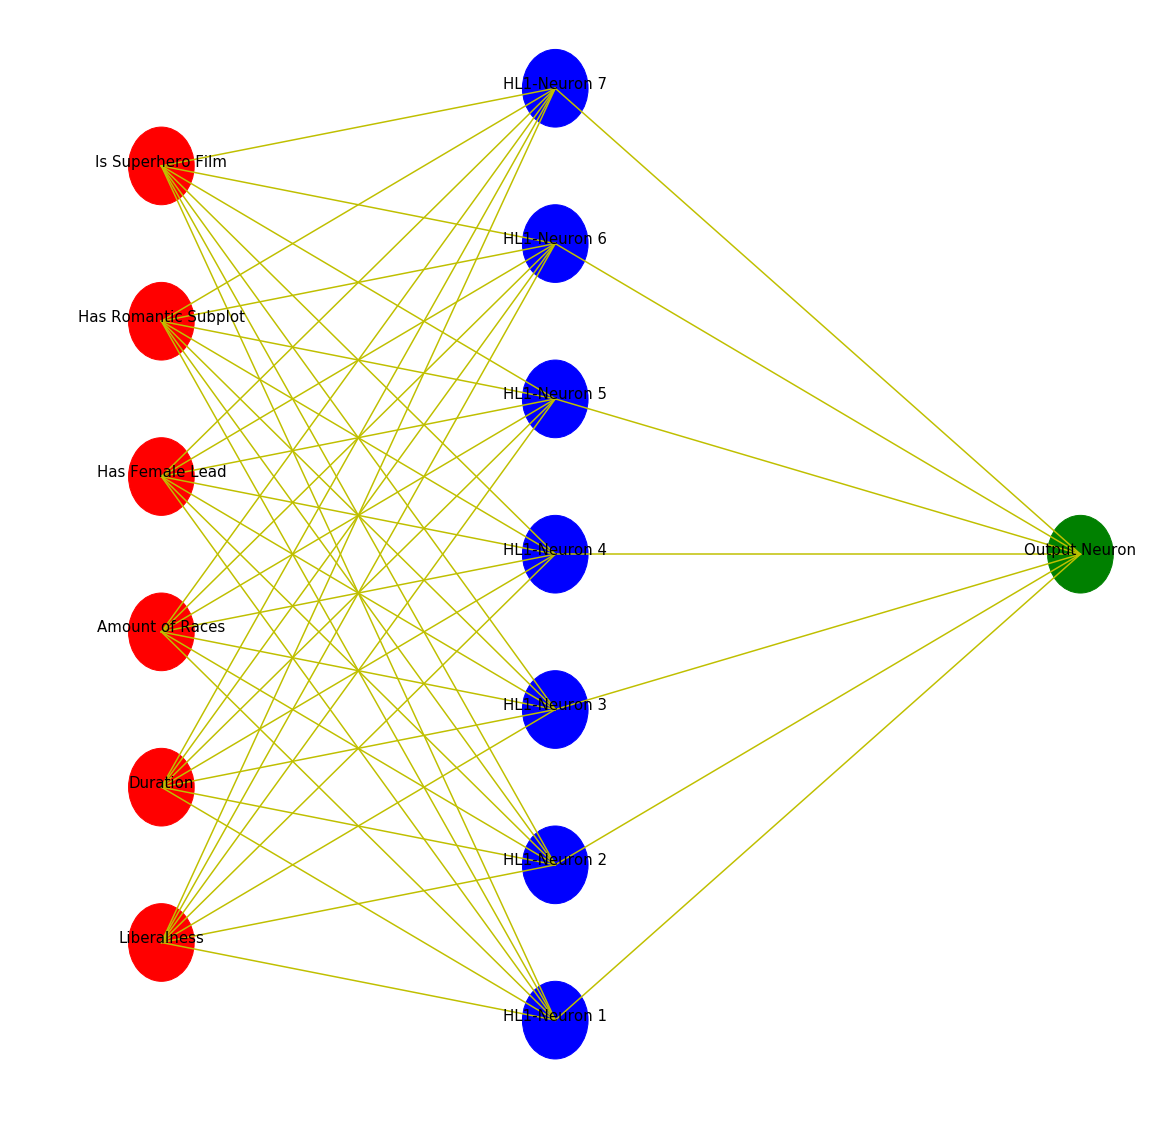
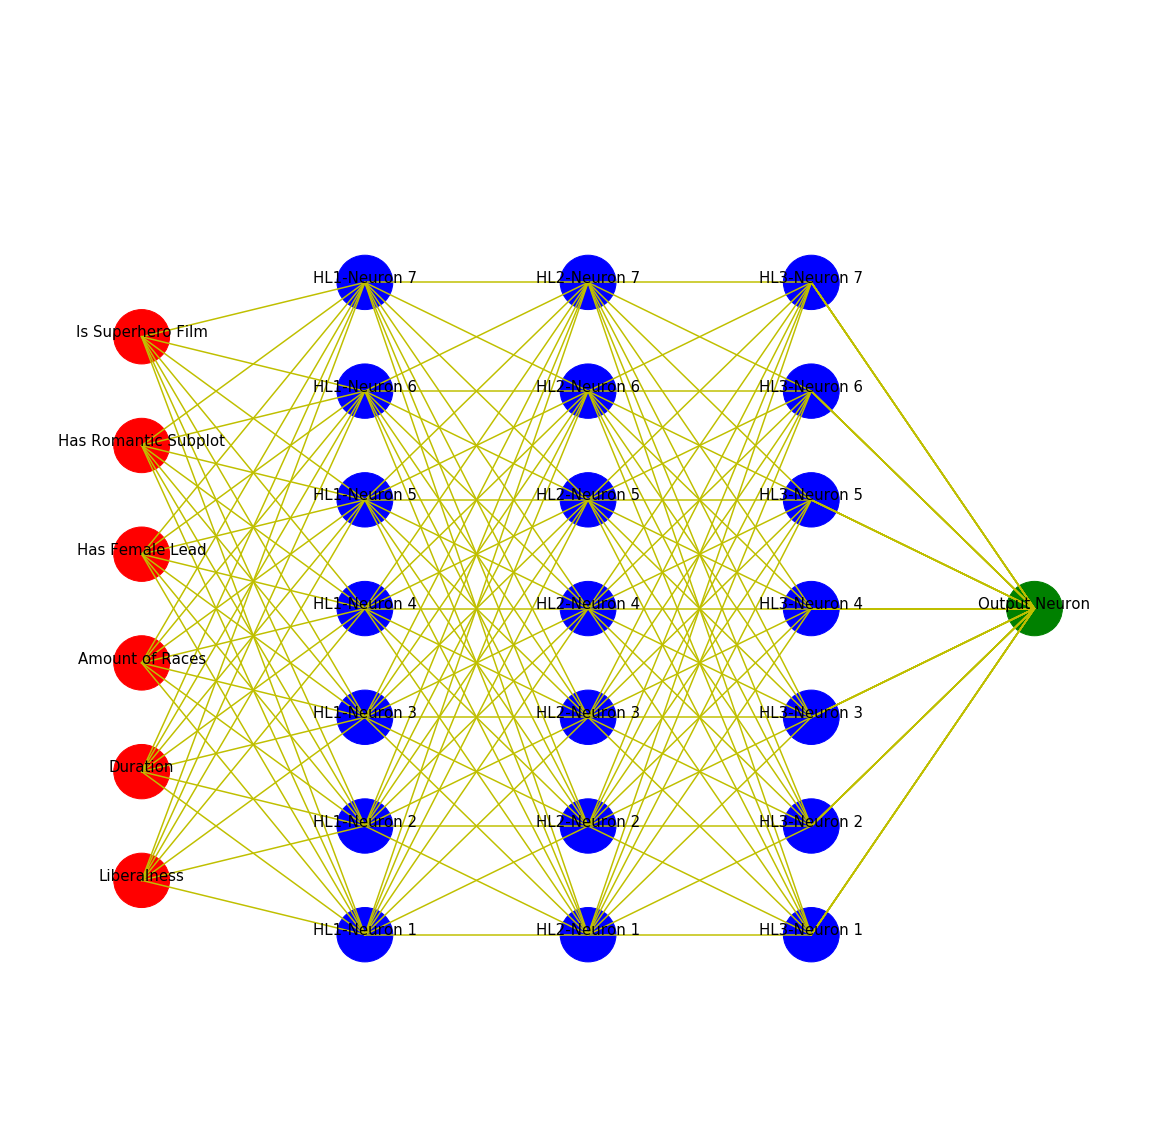
Multilayer capabilities complete

Changed region(s): [[0.0624, 0.0312, 0.9679, 0.967], [0.7493, 0.6551, 0.7806, 0.6863], [0.3122, 0.156, 0.3435, 0.1872]]

diff --git a/mlp-pandas-oop.py b/mlp-pandas-oop.py
@@ -1,3 +1,6 @@
+from math import floor
+from matplotlib.pyplot import Circle, subplots
+from matplotlib.lines import Line2D
 from numpy import exp
 from numpy.random import randn
 from pandas import DataFrame
@@ -5,26 +8,24 @@ from pandas import DataFrame
 
 class MLP:
     def __init__(self, X, y, hidden_layers):
-        self.X = X
-        self.y = y
         self.input_nodes = X.shape[1]
         self.hidden_neurons = X.shape[1] + 1
-        self.hidden_layers = hidden_layers  # Must be at least 1
+        self.hidden_layers = hidden_layers
         self.output_neuron = 1
-        self.learning_rate = 1  # Dictates weight adjustment
+        self.learning_rate = 1
         self.iterations = 500
         self.weights = {}
         self.check_hidden_input()
         self.gen_weights()
 
     def check_hidden_input(self):
-        if isinstance(self.hidden_layers, int) is False:
+        if isinstance(self.hidden_neurons, int) is False:
             print("Valid integer not provided.  Defaulting to 1")
             self.hidden_layers = 1
-        elif isinstance(self.hidden_layers,
-                        int) is True and self.hidden_layers < 1:
+        elif isinstance(self.hidden_neurons,
+                        int) is True and self.hidden_neurons < 1:
             print("Valid integer not provided.  Defaulting to 1")
-            self.hidden_layers = 1
+            self.hidden_neurons = 1
 
     def gen_weights(self):
         def gen_input_hl_weights(self):
@@ -42,13 +43,13 @@ class MLP:
                            for j in range(1, self.hidden_neurons + 1)),
                     columns=("HL" + str(i) + "-Synapse " + str(j)
                              for j in range(1, self.hidden_neurons + 1)))
-                for i in range(1, self.hidden_layers)  # Offset here
+                for i in range(1, self.hidden_neurons)  # Offset here
             ]
 
         def gen_hl_output_weights(self):
             self.weights["HL-Output"] = DataFrame(
                 randn(self.hidden_neurons, self.output_neuron),
-                index=("HL" + str(self.hidden_layers) + "-Neuron " + str(i)
+                index=("HL" + str(self.hidden_neurons) + "-Neuron " + str(i)
                        for i in range(1, self.hidden_neurons + 1)),
                 columns=["Output Synapses"])
 
@@ -69,7 +70,7 @@ class MLP:
             return 1 / (1 + exp(-neurons))
 
         def fwd_input_hl(self):
-            self.fwd_neurons.append(self.X.dot(self.weights["Input-HL"]))
+            self.fwd_neurons.append(X.dot(self.weights["Input-HL"]))
             self.fwd_neurons[-1].columns = self.weights["HL-HL"][0].index
             self.fwd_neurons[-1] = (self.fwd_neurons[-1],
                                     sigmoid_activation(self.fwd_neurons[-1]))
@@ -98,7 +99,7 @@ class MLP:
                                     sigmoid_activation(self.fwd_neurons[-1]))
 
         def fwd_input_hl_single(self):
-            self.fwd_neurons.append(self.X.dot(self.weights["Input-HL"]))
+            self.fwd_neurons.append(X.dot(self.weights["Input-HL"]))
             self.fwd_neurons[-1].columns = self.weights["HL-Output"].index
             self.fwd_neurons[-1] = (self.fwd_neurons[-1],
                                     sigmoid_activation(self.fwd_neurons[-1]))
@@ -133,7 +134,7 @@ class MLP:
             return exp(-neurons) / (1 + exp(-neurons))**2
 
         def calc_miss(self):
-            self.miss_amount = self.fwd_neurons[-1][1].values - self.y
+            self.miss_amount = self.fwd_neurons[-1][1].values - y
 
         def bkwd_output(self):
             self.bkwd_neurons.insert(
@@ -181,7 +182,7 @@ class MLP:
                 0,
                 (self.deltas[0].dot(self.weights["HL-HL"][0].T.values)).values
                 * self.bkwd_neurons[0])
-            self.d_SSE_d_weights.insert(0, self.X.T.dot(self.deltas[0]))
+            self.d_SSE_d_weights.insert(0, X.T.dot(self.deltas[0]))
 
         def update_weights_single(self):
             self.weights["HL-Output"] -= self.d_SSE_d_weights[
@@ -215,6 +216,224 @@ class MLP:
         bkwd_output(self)
         bkwd_check_if_single(self)
 
+    def plot_mlp(self):
+        if self.hidden_layers > 3:
+            print("Cannot plot this architecture")
+            return
+
+        self.input_coord = {}
+        self.hidden_coord = {}
+        self.output_coord = {}
+        fig, ax = subplots(figsize=(20, 20))
+        ax.axis("off")
+        ax.set_xlim((0, 1))
+        ax.set_ylim((0, 1))
+
+        def set_final_syn_pos(self):
+            if self.hidden_layers == 3:
+                self.final_syn_pos = 0.7
+            elif self.hidden_layers == 2:
+                self.final_syn_pos = 0.5
+            elif self.hidden_layers == 1:
+                self.final_syn_pos = 0.3
+
+        def add_input_layer(self):
+            def gen_x_y_coords(self):
+                self.input_coord["x"] = [0.1 for i in range(1, X.shape[1] + 1)]
+                self.input_coord["y"] = [
+                    0.1 + i * 0.1 for i in range(1, X.shape[1] + 1)
+                ]
+
+            def gen_circles_labels_coords(self):
+                self.input_coord["circles"] = (Circle(
+                    (x, y), 0.025, color='r') for x, y in zip(
+                        self.input_coord["x"], self.input_coord["y"]))
+                self.input_coord["labels"] = [
+                    ax.annotate(col, xy=(x, y), fontsize=15, ha="center")
+                    for x, y, col in zip(self.input_coord["x"], self.
+                                         input_coord["y"], X.columns)
+                ]
+
+            def add_circles(self):
+                for input_circle in self.input_coord["circles"]:
+                    ax.add_artist(input_circle)
+
+            gen_x_y_coords(self)
+            gen_circles_labels_coords(self)
+            add_circles(self)
+
+        def add_hidden_layers(self):
+            def gen_x_y_coords(self):
+                self.hidden_coord["x"] = [
+                    0.3 for i in range(1, X.shape[1] + 2)
+                ]
+                self.hidden_coord["y"] = [
+                    0.05 + i * 0.1 for i in range(1, X.shape[1] + 2)
+                ]
+
+            def gen_circles_coords(self):
+                self.hidden_coord["circles"] = (Circle(
+                    (x, y), 0.025, color='b') for x, y in zip(
+                        self.hidden_coord["x"], self.hidden_coord["y"]))
+
+            def gen_labels_coords(self):
+                self.hidden_coord["labels"] = [
+                    ax.annotate(
+                        "HL1-Neuron " + str(i),
+                        xy=(x, y),
+                        fontsize=15,
+                        ha="center") for x, y, i in zip(
+                            self.hidden_coord["x"], self.hidden_coord["y"],
+                            range(1, X.shape[1] + 2))
+                ]
+
+            def gen_synapses_coords(self):
+                self.hidden_coord["input-hl-synapses"] = (
+                    (y1, y2) for y2 in self.hidden_coord["y"]
+                    for y1 in self.input_coord["y"])
+
+            def add_circles(self):
+                for hl_circle in self.hidden_coord["circles"]:
+                    ax.add_artist(hl_circle)
+
+            def add_synapses(self):
+                for syn in self.hidden_coord["input-hl-synapses"]:
+                    ax.add_line(Line2D((0.1, 0.3), syn, color='y'))
+
+            def gen_x2_coords(self):
+                self.hidden_coord["x2"] = [
+                    0.5 for i in range(1, X.shape[1] + 2)
+                ]
+
+            def gen_circles2_coords(self):
+                self.hidden_coord["circles2"] = (Circle(
+                    (x, y), 0.025, color='b') for x, y in zip(
+                        self.hidden_coord["x2"], self.hidden_coord["y"]))
+
+            def gen_labels2_coords(self):
+                self.hidden_coord["labels2"] = [
+                    ax.annotate(
+                        "HL2-Neuron " + str(i),
+                        xy=(x, y),
+                        fontsize=15,
+                        ha="center") for x, y, i in zip(
+                            self.hidden_coord["x2"], self.hidden_coord["y"],
+                            range(1, X.shape[1] + 2))
+                ]
+
+            def gen_synapses2_coords(self):
+                self.hidden_coord["hl-hl-synapses"] = (
+                    (y1, y2) for y2 in self.hidden_coord["y"]
+                    for y1 in self.hidden_coord["y"])
+
+            def add_circles2(self):
+                for hl_circle in self.hidden_coord["circles2"]:
+                    ax.add_artist(hl_circle)
+
+            def add_synapses2(self):
+                for syn in self.hidden_coord["hl-hl-synapses"]:
+                    ax.add_line(Line2D((0.3, 0.5), syn, color='y'))
+
+            def gen_x3_coords(self):
+                self.hidden_coord["x3"] = [
+                    0.7 for i in range(1, X.shape[1] + 2)
+                ]
+
+            def gen_circles3_coords(self):
+                self.hidden_coord["circles3"] = (Circle(
+                    (x, y), 0.025, color='b') for x, y in zip(
+                        self.hidden_coord["x3"], self.hidden_coord["y"]))
+
+            def gen_labels3_coords(self):
+                self.hidden_coord["labels3"] = [
+                    ax.annotate(
+                        "HL3-Neuron " + str(i),
+                        xy=(x, y),
+                        fontsize=15,
+                        ha="center") for x, y, i in zip(
+                            self.hidden_coord["x3"], self.hidden_coord["y"],
+                            range(1, X.shape[1] + 2))
+                ]
+
+            def gen_synapses3_coords(self):
+                self.hidden_coord["hl-hl-synapses2"] = (
+                    (y1, y2) for y2 in self.hidden_coord["y"]
+                    for y1 in self.hidden_coord["y"])
+
+            def add_circles3(self):
+                for hl_circle in self.hidden_coord["circles3"]:
+                    ax.add_artist(hl_circle)
+
+            def add_synapses3(self):
+                for syn in self.hidden_coord["hl-hl-synapses2"]:
+                    ax.add_line(Line2D((0.5, 0.7), syn, color='y'))
+
+            gen_x_y_coords(self)
+            gen_circles_coords(self)
+            gen_labels_coords(self)
+            gen_synapses_coords(self)
+            add_circles(self)
+            add_synapses(self)
+
+            if self.hidden_layers >= 2:
+                gen_x2_coords(self)
+                gen_circles2_coords(self)
+                gen_labels2_coords(self)
+                gen_synapses2_coords(self)
+                add_circles2(self)
+                add_synapses2(self)
+                if self.hidden_layers == 3:
+                    gen_x3_coords(self)
+                    gen_circles3_coords(self)
+                    gen_labels3_coords(self)
+                    gen_synapses3_coords(self)
+                    add_circles3(self)
+                    add_synapses3(self)
+
+        def add_output_layer(self):
+            def gen_x_y_coords(self):
+                mode_hidden = floor(len(self.hidden_coord["y"]) / 2)
+                self.output_coord["x"] = 0.9
+                self.output_coord["y"] = self.hidden_coord["y"][mode_hidden]
+
+            def gen_circle_coords(self):
+                self.output_coord["circle"] = Circle(
+                    (self.output_coord["x"], self.output_coord["y"]),
+                    0.025,
+                    color='g')
+
+            def gen_label_coords(self):
+                self.output_coord["label"] = ax.annotate(
+                    "Output Neuron",
+                    xy=(self.output_coord["x"], self.output_coord["y"]),
+                    fontsize=15,
+                    ha="center")
+
+            def gen_synapses_coords(self):
+                self.output_coord["hl-output-synapses"] = (
+                    (y, self.output_coord["y"]) for y in self.hidden_coord["y"]
+                    for y1 in self.hidden_coord["y"])
+
+            def add_circle(self):
+                ax.add_artist(self.output_coord["circle"])
+
+            def add_synapses(self):
+                for syn in self.output_coord["hl-output-synapses"]:
+                    ax.add_line(
+                        Line2D((self.final_syn_pos, 0.9), syn, color='y'))
+
+            gen_x_y_coords(self)
+            gen_circle_coords(self)
+            gen_label_coords(self)
+            gen_synapses_coords(self)
+            add_circle(self)
+            add_synapses(self)
+
+        set_final_syn_pos(self)
+        add_input_layer(self)
+        add_hidden_layers(self)
+        add_output_layer(self)
+
     def train_mlp(self):
         for i in range(self.iterations):
             self.forward_prop()
@@ -235,8 +454,9 @@ X = films  # Tensor
 y = DataFrame(X.pop("Film Review Score"))  # Target
 
 # Predict
-mlp = MLP(X, y, 0)  # Provide X, y, and # hidden layers
+mlp = MLP(X, y, 3)  # Provide X, y, and # hidden layers
 mlp.gen_weights()
+mlp.plot_mlp()  # Plot the architecture if <= 3
 mlp.train_mlp()  # Iterate between forward & backward prop
 
 # Reassign results back to original dataframe
